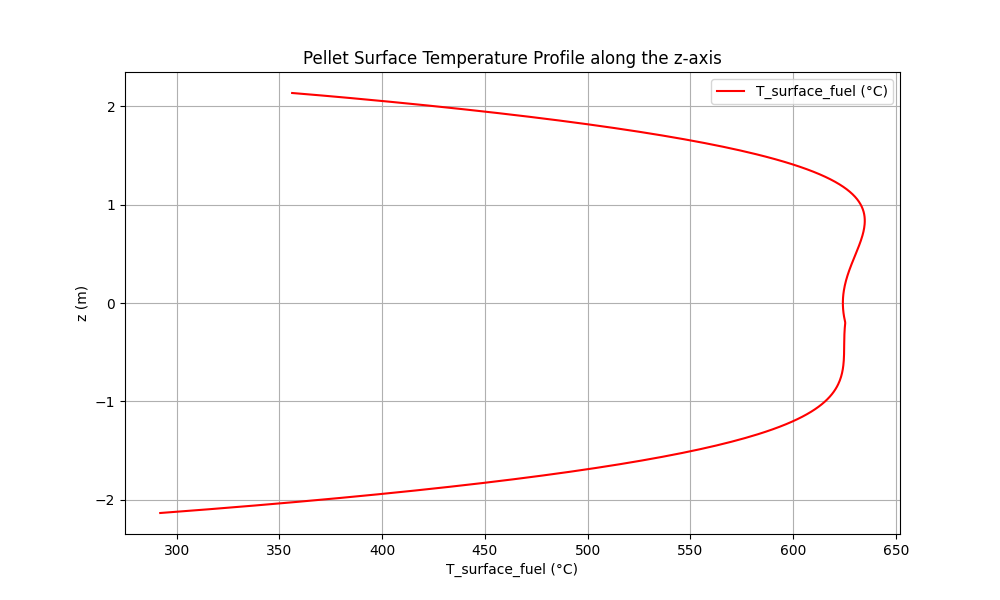
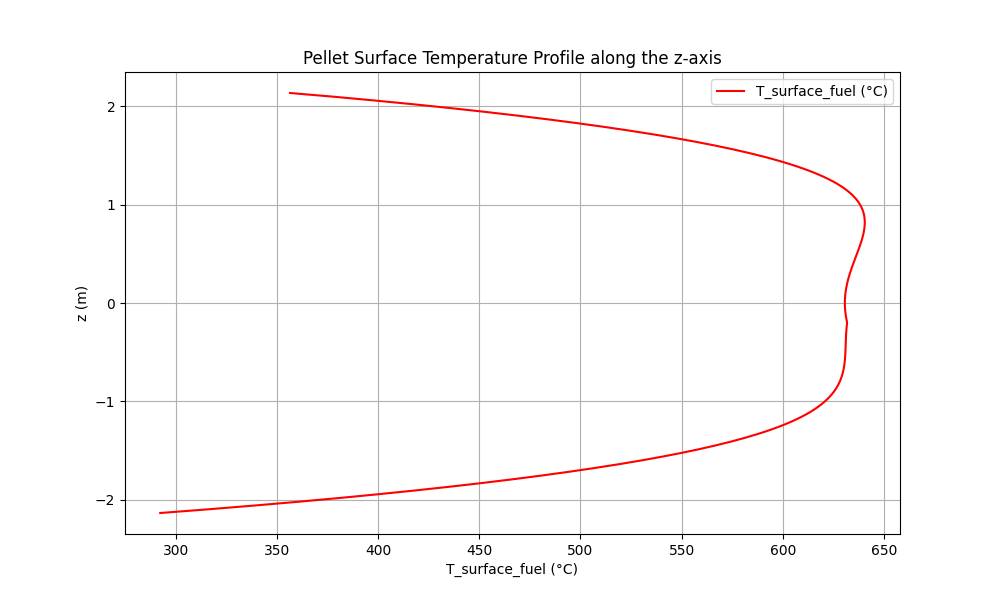
ASS 3 FINITO, corretto anche nel 2 la pressione interna del gas nel cladding

diff --git a/assignment3/script.py b/assignment3/script.py
@@ -82,6 +82,81 @@ def thermal_stress(T_ci, T_co, r_in, r_out):
     return sigma_h_in, sigma_h_out, sigma_th_in, sigma_th_out
 
 
+# 5) GAS PLENUM ANALYSIS
+def gas_plenum_analysis(T_gas, D_f, D_in, H, p_i_max):
+    # DATI
+    # gas prodotti solo da Xe e Kr e possono essere trattati come gas perfetti
+    burn_up_MWd = 60e3                            # MWd/tU
+    burn_up_J = burn_up_MWd * 1e6 * 86400 / 1e3   # J/kg_U  (1 MWd = 1e6 W * 86400 s; per tU -> per 1e3 kg)
+    N2 = 25   # ppm in peso (impurita')
+    H2O = 75  # ppm in peso (impurita')
+    M_N2, M_H2O = 0.028, 0.018               # kg/mol
+    Y_XeKr = 0.28                # resa di fissione COMBINATA Xe+Kr (atomi di gas nobile per fissione)
+    f_R = 0.4                    # frazione di gas rilasciata dalla pastiglia
+    rho_fuel = 0.95 * 10960     # kg/m3, densita' UO2 (95% del teorico)
+    E_fiss = 200 * 1.60218e-13   # J, energia rilasciata per fissione (200 MeV)
+    e_U235 = 0.0445              # arricchimento (frazione in peso di U-235); coerente con enr_max in main (AP1000, verificare su ML11171A443)
+    M_235, M_238, M_O = 235.04, 238.05, 16.00            # g/mol
+    M_U = 1 / (e_U235 / M_235 + (1 - e_U235) / M_238)    # g/mol, massa molare media dell'U arricchito (media in peso)
+    M_UO2 = M_U + 2 * M_O        # g/mol
+    N_A = 6.022e23              # 1/mol, numero di Avogadro
+    # massa di combustibile e di uranio nella barretta
+    V_fuel = np.pi * (D_f / 2)**2 * H   # m3, volume della colonna di pastiglie
+    m_UO2 = V_fuel * rho_fuel           # kg, massa di UO2
+    m_U = m_UO2 * M_U / M_UO2           # kg, massa di uranio
+    R = 8.314  # J/(mol K), costante dei gas
+    # moli di gas di fissione rilasciati
+    N_fiss = burn_up_J * m_U / E_fiss   # adimensionale (numero di fissioni)
+    n_fg = N_fiss * f_R * Y_XeKr / N_A   # mol di gas di fissione (Xe+Kr) rilasciate
+
+
+    # moli di impurità
+    n_N2  = (N2  * 1e-6 * m_UO2) / M_N2       # mol  (N2  = 25 ppm)
+    n_H2O = (H2O * 1e-6 * m_UO2) / M_H2O      # mol  (H2O = 75 ppm)
+
+    # calcolo le moli totali
+    n_tot = n_fg + n_N2 + n_H2O
+
+    # temperatura del gas = T interna guaina alla quota del plenum (in cima al pin)
+    T = T_gas[-1] + 273.15  # K  (T_gas e' in degC)
+
+    # legge dei gas perfetti -> volume del plenum a p_i_max
+    V = n_tot * R * T / p_i_max          # m3
+    # il plenum e' delimitato dalla parete INTERNA della guaina (non dal pellet)
+    A_plenum = np.pi * (D_in / 2)**2     # m2, sezione interna guaina
+    H_plenum = V / A_plenum              # m, altezza del plenum
+
+    # ---- CHECK: validita' del gas ideale per il vapore d'acqua ----
+    p_H2O = n_H2O / n_tot * p_i_max      # Pa, pressione parziale H2O (legge di Dalton)
+    Tc_H2O, pc_H2O = 647.1, 22.06e6      # K, Pa (coordinate critiche acqua)
+    Tr, pr = T / Tc_H2O, p_H2O / pc_H2O
+    try:
+        import CoolProp.CoolProp as CP
+        Z = CP.PropsSI('Z', 'T', T, 'P', p_H2O, 'Water')   # fattore di compressibilita'
+    except Exception:
+        Z = float('nan')
+
+    # ---- RISULTATO FINALE ----
+    print()
+    print("=" * 52)
+    print(" GAS PLENUM SIZING")
+    print("=" * 52)
+    print(f" n (Xe+Kr) rilasciate  = {n_fg * 1e3:8.3f} mmol")
+    print(f" n N2                  = {n_N2 * 1e3:8.3f} mmol")
+    print(f" n H2O                 = {n_H2O * 1e3:8.3f} mmol")
+    print(f" n_tot                 = {n_tot * 1e3:8.3f} mmol")
+    print("-" * 52)
+    print(f" T_gas (cima, interna) = {T - 273.15:8.1f} degC ({T:7.1f} K)")
+    print(f" p_i,max (Mariotte)    = {p_i_max / 1e6:8.2f} MPa")
+    print(f" V_plenum              = {V * 1e6:8.2f} cm^3")
+    print(f" H_plenum              = {H_plenum * 100:8.2f} cm")
+    print("-" * 52)
+    gas_ok = "OK (Z~1)" if abs(Z - 1) < 0.05 else "non ideale, verificare"
+    print(f" H2O ideal gas: Tr={Tr:.3f}  pr={pr:.3f}  Z={Z:.3f}  -> {gas_ok}")
+    print("=" * 52)
+
+    return V, H_plenum, n_tot
+
 
 
 # ------- \MAIN -------
@@ -94,14 +169,18 @@ def main():
     D_in = D_out_clad - 2 * thickness    # m, diametro interno guaina
     r_avg = (D_out_clad + D_in) / 4          # raggio medio = (r_in + r_out)/2
     p_sys = inputs["p_sys"]              # Pa, pressione di sistema
-
+    p_int_gas = 7e6                        # Pa, pressione massima ammissibile del gas di riempimento (fill-gas)
+    D_fuel = inputs["D_pellet"]            # m, diametro del pellet di combustibile
+    H_active = inputs["H_active"]          # m, altezza attiva della barra
+    enr_max = 0.0445
+                    # J/kg, energia specifica media rilasciata per unità di massa di combustibile
     sigma_y = 241  # MPa, tensione di snervamento 
     sigma_u = 413  # MPa, tensione di rottura
     S = min(2/3 * sigma_y, 1/3 * sigma_u)  # MPa, tensione ammissibile (Kye-Ho Tab.2)
 
     # Temperature della guaina rilette dall'output dell'Assignment 2
     z, T_ci, T_co = load_cladding_temperatures()
-
+    T_gas = T_ci
     # temperatura media nella parete (media interna/esterna)
     T_c_avg = (T_co + T_ci) / 2          # deg C, profilo lungo z
 
@@ -118,7 +197,7 @@ def main():
     p_i = internal_pressure_analysis(sigma_y, r_avg, thickness)  # Pa
 
     # 3) STRESS ANALYSIS
-    sigma_max_in, sigma_max_out, sigma_in_diz, sigma_out_diz = stress_analysis(D_in/2, D_out_clad/2, p_i, p_sys)  # Pa
+    sigma_max_in, sigma_max_out, sigma_in_diz, sigma_out_diz = stress_analysis(D_in/2, D_out_clad/2, p_int_gas, p_sys)  # Pa
     P_in = sigma_max_in / 1e6     # MPa
     P_out = sigma_max_out / 1e6    # MPa
     # componenti meccaniche in MPa (stress_analysis lavora in Pa: p_i, p_sys sono in Pa)
@@ -155,6 +234,9 @@ def main():
     sigma_r_in_tot = sigma_in_diz["r"] + sigma_th_in_diz["r"]
     sigma_r_out_tot = sigma_out_diz["r"] + sigma_th_out_diz["r"]
 
+    # 5) GAS PLENUM SIZING  -- p_i_max = pressione massima ammissibile (Mariotte, sigma_h = sigma_y)
+    V_plenum, H_plenum, n_tot = gas_plenum_analysis(T_gas, D_fuel, D_in, H_active, p_i)
+
 
 # ----- PLOT ------
 # 1) Buckling analysis: p_cr(z)
@@ -171,11 +253,12 @@ def main():
     plt.savefig(PLOTS_DIR / "buckling_analysis_pcr.png", dpi=300)
     
     plt.figure()
-    plt.plot(sigma_max_in_tot, z,  label="Thermal stress - internal (MPa)")
-    plt.plot(sigma_max_out_tot, z,  label="Thermal stress - external (MPa)")
+    plt.plot(sigma_max_in_tot,  z, label="Max stress inner (MPa)")
+    plt.plot(sigma_max_out_tot, z, label="Max stress outer (MPa)")
+    plt.axvline(3*S, color="red", linestyle="--", label="Sm (MPa)")
     plt.ylabel("z (m)")
     plt.xlabel("Pressure (MPa)")
-    plt.title("Buckling analysis")
+    plt.title("Tresca vs 3*Sm")
     plt.legend()
     plt.grid()
     PLOTS_DIR.mkdir(exist_ok=True)

diff --git a/assignment2/assignment2.py b/assignment2/assignment2.py
@@ -350,7 +350,7 @@ def calculate_T_pellet_surface_iterative(T_ci, T_co, q_vol_profile, A_fuel, D_pe
     T_fuel_avg = T_f_S + 200.0   # initial guess for the pellet mean temperature
     T_c_avg = (T_ci + T_co) / 2
 
-    p_i = 3e6  # Pa (fill-gas internal pressure)
+    p_i = 7e6  # Pa (fill-gas internal pressure)
     tol = 1e-3
     max_iter = 1000
 
